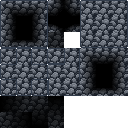
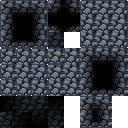
level 3 skeleton

Changed region(s): [[0.625, 0.75, 0.875, 1.0]]

diff --git a/TP2/Level3.cpp b/TP2/Level3.cpp
@@ -1,0 +1,118 @@
+#include "Level3.h"
+#include "Level1.h"
+#include "Spike.h"
+#include "Wall.h"
+
+void Level3::Init()
+{
+    id = LEVEL3;
+
+    background = new Sprite("Resources/Level3Bg.png");
+    foreground = new Sprite("Resources/Level3Fg.png");
+
+    scene = new Scene();
+    TP2::scene = scene;
+
+    scene->Add(TP2::player, MOVING);
+
+    camera = new Camera();
+    camera->MoveTo(float(window->Width()), float(window->Height()));
+    scene->Add(camera, STATIC);
+
+    screenTransition0 = new ScreenTransition(HORIZONTAL, scene);
+    screenTransition0->MoveTo(1280.0f, 960.0f);
+    scene->Add(screenTransition0, STATIC);
+
+    screenTransition1 = new ScreenTransition(VERTICAL, scene);
+    screenTransition1->MoveTo(832.0f, 768.0f);
+    scene->Add(screenTransition1, STATIC);
+
+    screenTransition2 = new ScreenTransition(HORIZONTAL, scene);
+    screenTransition2->MoveTo(1280.0f, 512.0f);
+    scene->Add(screenTransition2, STATIC);
+
+    screenTransition3 = new ScreenTransition(VERTICAL, scene);
+    screenTransition3->MoveTo(1792.0f, 768.0f);
+    scene->Add(screenTransition3, STATIC);
+
+    levelTransition = new LevelTransition(RIGHT);
+    levelTransition->MoveTo(2560.0f, 1408.0f);
+    scene->Add(levelTransition, STATIC);
+
+    AddWalls(scene, 0, 0, 80, 2);
+    AddWalls(scene, 0, 46, 80, 2);
+    AddWalls(scene, 0, 0, 2, 48);
+    AddWalls(scene, 78, 0, 2, 42);
+}
+
+void Level3::Update()
+{
+    if (levelTransition->Transitioning())
+    {
+        TP2::player->AddCooldowns(gameTime);
+        TP2::player->Translate(LevelTransition::DISTANCE * gameTime, 0.0f);
+        TP2::player->UpdateAnimation();
+        levelTransition->Update();
+    }
+    else if (levelTransition->Done())
+    {
+        TP2::NextLevel<Level1>();
+    }
+    else if (enteringCd.Down())
+    {
+        TP2::player->AddCooldowns(gameTime);
+        TP2::player->UpdateAnimation();
+        enteringCd.Add(gameTime);
+        TP2::player->Translate(-LevelTransition::DISTANCE * gameTime, 0.0f);
+    }
+    else if (screenTransition0->Transitioning())
+    {
+        screenTransition0->Update();
+        TP2::player->AddCooldowns(0.1f * gameTime);
+    }
+    else if (screenTransition1->Transitioning())
+    {
+        screenTransition1->Update();
+        TP2::player->AddCooldowns(0.1f * gameTime);
+    }
+    else if (screenTransition2->Transitioning())
+    {
+        screenTransition2->Update();
+        TP2::player->AddCooldowns(0.1f * gameTime);
+    }
+    else if (screenTransition3->Transitioning())
+    {
+        screenTransition3->Update();
+        TP2::player->AddCooldowns(0.1f * gameTime);
+    }
+    else
+    {
+        scene->Update();
+        scene->CollisionDetection();
+    }
+}
+
+void Level3::Draw()
+{
+    background->Draw(camera->X(), camera->Y(), LAYER_BG);
+    foreground->Draw(camera->X(), camera->Y(), LAYER_FG);
+    scene->Draw();
+}
+
+void Level3::Finalize()
+{
+    delete background;
+    delete foreground;
+    delete totem;
+    scene->Remove(TP2::player, MOVING);
+    delete scene;
+}
+
+void Level3::EnterFrom(LevelId id)
+{
+    TP2::player->MoveTo(2560.0f, 1442.0f);
+    scene->Apply([&](Object *obj) { obj->Translate(float(-window->Width()), float(-window->Height())); });
+    TP2::player->State(WALKING);
+    TP2::player->Dir(H_LEFT);
+    enteringCd.Restart();
+}

diff --git a/TP2/Level1.cpp b/TP2/Level1.cpp
@@ -2,6 +2,7 @@
 #include "EntityBlock.h"
 #include "Level0.h"
 #include "Level2.h"
+#include "Level3.h"
 #include "LevelTransition.h"
 #include "TP2.h"
 #include "Wall.h"
@@ -97,17 +98,17 @@ void Level1::Update()
     {
         TP2::NextLevel<Level2>();
     }
-    // else if (level3Transition->Transitioning())
-    // {
-    //     TP2::player->AddCooldowns(gameTime);
-    //     TP2::player->Translate(-LevelTransition::DISTANCE * gameTime, 0.0f);
-    //     TP2::player->UpdateAnimation();
-    //     level3Transition->Update();
-    // }
-    // else if (level3Transition->Done())
-    // {
-    //     TP2::NextLevel<Level3>();
-    // }
+    else if (level3Transition->Transitioning())
+    {
+        TP2::player->AddCooldowns(gameTime);
+        TP2::player->Translate(-LevelTransition::DISTANCE * gameTime, 0.0f);
+        TP2::player->UpdateAnimation();
+        level3Transition->Update();
+    }
+    else if (level3Transition->Done())
+    {
+        TP2::NextLevel<Level3>();
+    }
     else if (enteringCd.Down())
     {
         TP2::player->AddCooldowns(gameTime);
@@ -160,7 +161,7 @@ void Level1::EnterFrom(LevelId id)
         break;
     case LEVEL3:
         enteringFrom = LEVEL3;
-        TP2::player->MoveTo(0.0f, 706.0f);
+        TP2::player->MoveTo(0.0f, 674.0f);
         TP2::player->State(WALKING);
         TP2::player->Dir(H_RIGHT);
         enteringCd.Restart();

diff --git a/TP2/Level3.h b/TP2/Level3.h
@@ -1,0 +1,38 @@
+#ifndef _LEVEL3_H_
+#define _LEVEL3_H_
+
+#include "Camera.h"
+#include "Level.h"
+#include "LevelTransition.h"
+#include "Scene.h"
+#include "ScreenTransition.h"
+#include "TP2.h"
+
+class Level3 : public Level
+{
+  private:
+    Sprite *background = nullptr;
+    Sprite *foreground = nullptr;
+    Sprite *totem = nullptr;
+
+    Scene *scene = nullptr;
+
+    Camera *camera = nullptr;
+    ScreenTransition *screenTransition0 = nullptr;
+    ScreenTransition *screenTransition1 = nullptr;
+    ScreenTransition *screenTransition2 = nullptr;
+    ScreenTransition *screenTransition3 = nullptr;
+    LevelTransition *levelTransition = nullptr;
+
+    Cooldown enteringCd{LevelTransition::DURATION};
+
+  public:
+    void Init();
+    void Update();
+    void Draw();
+    void Finalize();
+
+    void EnterFrom(LevelId id);
+};
+
+#endif

diff --git a/TP2/TP2.cpp b/TP2/TP2.cpp
@@ -4,6 +4,7 @@
 #include "Level0.h"
 #include "Level1.h"
 #include "Level2.h"
+#include "Level3.h"
 #include "Util.h"
 
 #define M_PI 3.141592653589793238462643383279502884L
@@ -80,6 +81,8 @@ void TP2::Update()
         NextLevel<Level1>();
     else if (window->KeyDown(VK_F3))
         NextLevel<Level2>();
+    else if (window->KeyDown(VK_F4))
+        NextLevel<Level3>();
     else if (window->KeyDown(VK_F6))
         NextLevel<TitleScreen>();
     else if (window->KeyDown(VK_F7))

diff --git a/TP2/Level2.cpp b/TP2/Level2.cpp
@@ -76,7 +76,7 @@ void Level2::Update()
     if (level1Transition->Transitioning())
     {
         TP2::player->AddCooldowns(gameTime);
-        TP2::player->Translate(LevelTransition::DISTANCE * gameTime, 0.0f);
+        TP2::player->Translate(-LevelTransition::DISTANCE * gameTime, 0.0f);
         TP2::player->UpdateAnimation();
         level1Transition->Update();
     }
